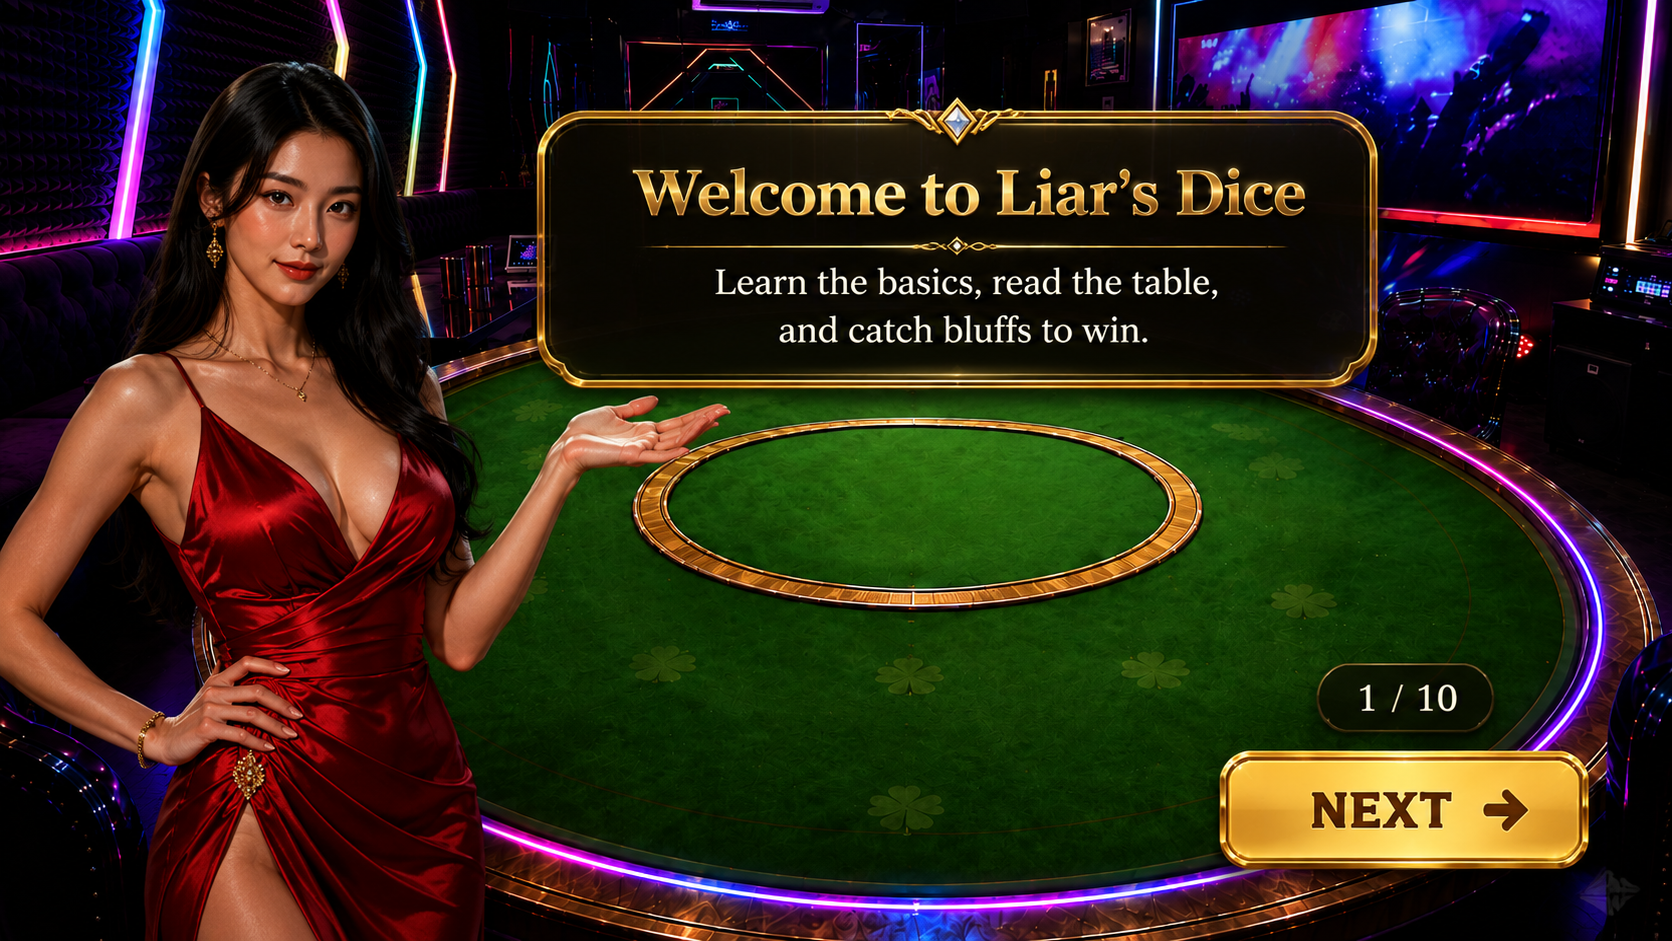
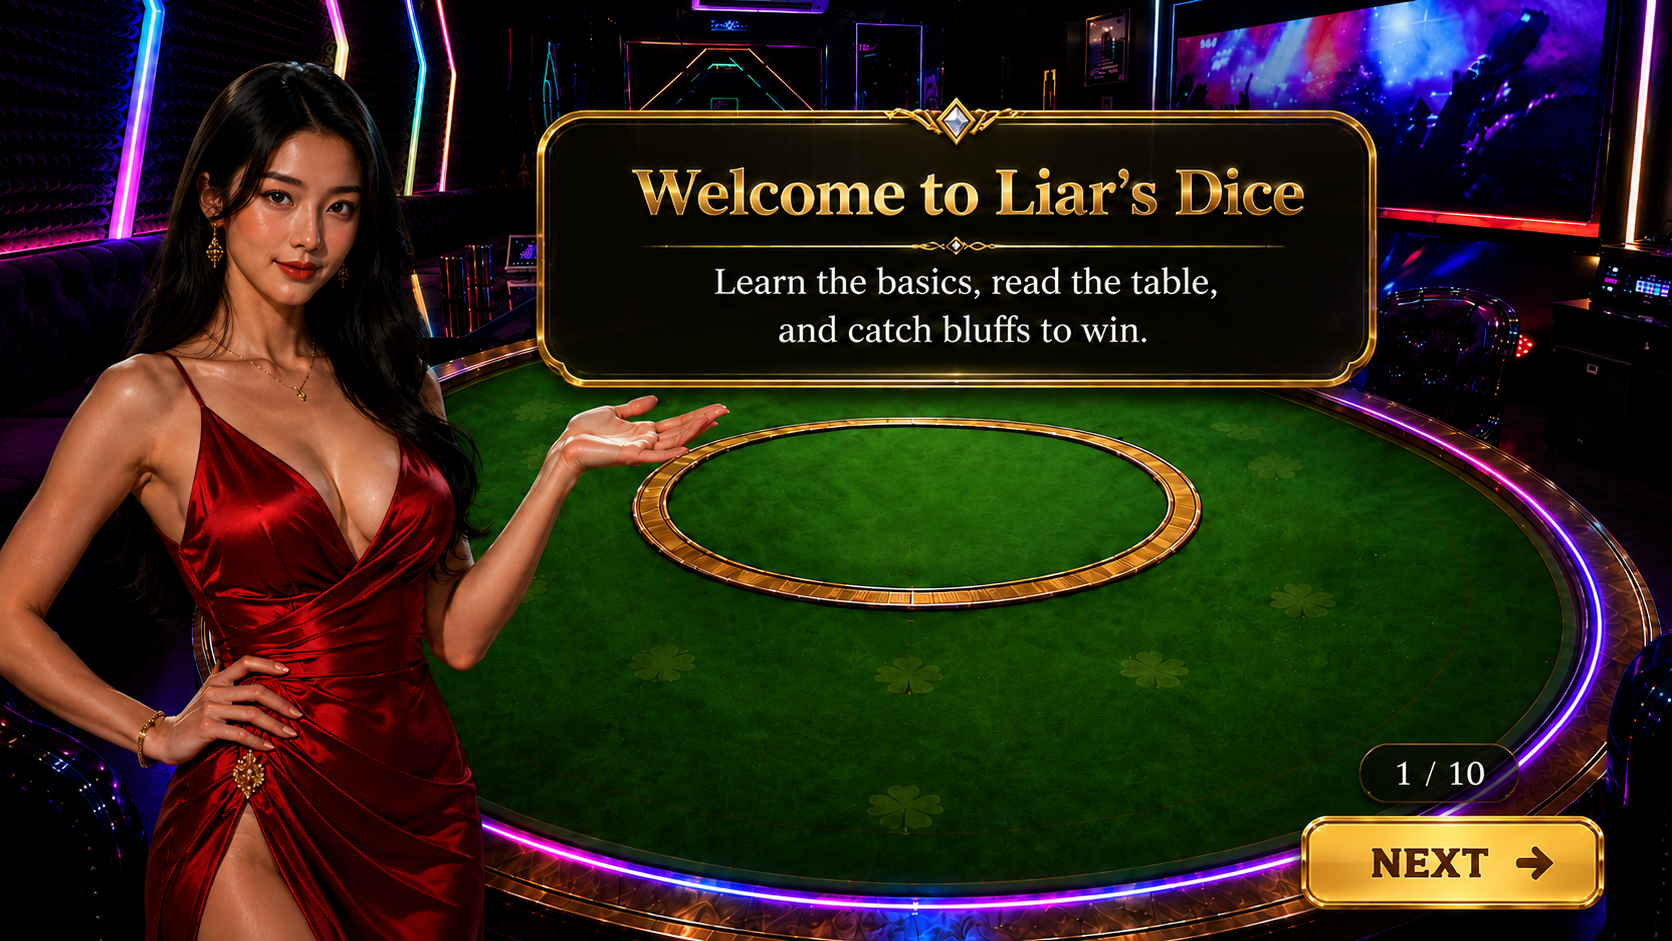
12

diff --git a/src/screens/TutorialScreen.jsx b/src/screens/TutorialScreen.jsx
@@ -3,22 +3,23 @@ import { useCallback, useEffect, useMemo, useState } from 'react';
 const TOTAL_PAGES = 10;
 const LANDSCAPE_SIZE = { width: 1672, height: 941 };
 const PORTRAIT_SIZE = { width: 941, height: 1672 };
+const SKIP_IMAGE_SRC = '/assets/tutorial/skip.png';
 
 // Pixel rectangles measured against the supplied tutorial artwork. They are
 // converted to percentages so the transparent control stays over the button
 // when the fixed game canvas is scaled by the application shell.
 const HOTSPOTS = {
   landscape: [
-    [1200, 730, 420, 165],
-    [1345, 775, 315, 125],
-    [1270, 640, 335, 120],
-    [1335, 785, 305, 120],
-    [1225, 710, 390, 140],
-    [1245, 790, 370, 130],
-    [1260, 740, 390, 135],
-    [1320, 735, 345, 125],
-    [1235, 745, 400, 140],
-    [1195, 675, 350, 130],
+    [1275, 802, 320, 108],
+    [1388, 820, 268, 90],
+    [1338, 812, 302, 102],
+    [1330, 852, 280, 88],
+    [1358, 844, 285, 90],
+    [1248, 835, 328, 96],
+    [1348, 820, 310, 98],
+    [1382, 820, 248, 86],
+    [1412, 845, 245, 82],
+    [1242, 754, 300, 100],
   ],
   portrait: [
     [500, 1380, 400, 180],
@@ -56,6 +57,10 @@ export default function TutorialScreen({ navigation, orientation = 'landscape' }
   const imageSrc = tutorialImage(activeOrientation, pageIndex);
   const isFinalPage = pageIndex === TOTAL_PAGES - 1;
 
+  const skipTutorial = useCallback(() => {
+    navigation?.goMainMenu?.();
+  }, [navigation]);
+
   const hotspotStyle = useMemo(
     () => toPercentRect(HOTSPOTS[activeOrientation][pageIndex], activeSize),
     [activeOrientation, activeSize, pageIndex],
@@ -63,11 +68,11 @@ export default function TutorialScreen({ navigation, orientation = 'landscape' }
 
   const advance = useCallback(() => {
     if (isFinalPage) {
-      navigation?.goMainMenu?.();
+      skipTutorial();
       return;
     }
     setPageIndex((current) => Math.min(TOTAL_PAGES - 1, current + 1));
-  }, [isFinalPage, navigation]);
+  }, [isFinalPage, skipTutorial]);
 
   useEffect(() => {
     setImageFailed(false);
@@ -75,6 +80,7 @@ export default function TutorialScreen({ navigation, orientation = 'landscape' }
     const paths = new Set([
       tutorialImage(activeOrientation, pageIndex),
       tutorialImage(activeOrientation === 'portrait' ? 'landscape' : 'portrait', pageIndex),
+      SKIP_IMAGE_SRC,
     ]);
 
     if (pageIndex < TOTAL_PAGES - 1) {
@@ -90,6 +96,12 @@ export default function TutorialScreen({ navigation, orientation = 'landscape' }
 
   useEffect(() => {
     const handleKeyDown = (event) => {
+      if (event.key === 'Escape') {
+        event.preventDefault();
+        skipTutorial();
+        return;
+      }
+
       if (event.key === 'ArrowRight' || event.key === 'Enter' || event.key === ' ') {
         event.preventDefault();
         advance();
@@ -98,7 +110,7 @@ export default function TutorialScreen({ navigation, orientation = 'landscape' }
 
     window.addEventListener('keydown', handleKeyDown);
     return () => window.removeEventListener('keydown', handleKeyDown);
-  }, [advance]);
+  }, [advance, skipTutorial]);
 
   return (
     <section
@@ -121,13 +133,24 @@ export default function TutorialScreen({ navigation, orientation = 'landscape' }
       )}
 
       {!imageFailed && (
-        <button
-          className="tutorial-screen__hotspot"
-          type="button"
-          style={hotspotStyle}
-          onClick={advance}
-          aria-label={isFinalPage ? 'Start game' : `Next tutorial page, ${pageIndex + 2} of ${TOTAL_PAGES}`}
-        />
+        <>
+          <button
+            className={`tutorial-screen__skip-button tutorial-screen__skip-button--${activeOrientation}`}
+            type="button"
+            onClick={skipTutorial}
+            aria-label="Skip tutorial"
+          >
+            <img className="tutorial-screen__skip-image" src={SKIP_IMAGE_SRC} alt="" draggable="false" />
+          </button>
+
+          <button
+            className="tutorial-screen__hotspot"
+            type="button"
+            style={hotspotStyle}
+            onClick={advance}
+            aria-label={isFinalPage ? 'Start game' : `Next tutorial page, ${pageIndex + 2} of ${TOTAL_PAGES}`}
+          />
+        </>
       )}
     </section>
   );

diff --git a/src/styles/screens/tutorial.css b/src/styles/screens/tutorial.css
@@ -75,3 +75,45 @@
   font-size: 18px;
   overflow-wrap: anywhere;
 }
+
+
+.tutorial-screen__skip-button {
+  position: absolute;
+  z-index: 7;
+  display: block;
+  margin: 0;
+  padding: 0;
+  border: 0;
+  outline: 0;
+  background: transparent;
+  cursor: pointer;
+  touch-action: manipulation;
+  -webkit-tap-highlight-color: transparent;
+}
+
+.tutorial-screen__skip-button--landscape {
+  top: 24px;
+  right: 28px;
+  width: 210px;
+}
+
+.tutorial-screen__skip-button--portrait {
+  top: 30px;
+  right: 26px;
+  width: 195px;
+}
+
+.tutorial-screen__skip-image {
+  display: block;
+  width: 100%;
+  height: auto;
+  pointer-events: none;
+  user-select: none;
+  -webkit-user-drag: none;
+}
+
+.tutorial-screen__skip-button:focus-visible {
+  border-radius: 18px;
+  outline: 4px solid rgba(255, 237, 166, .9);
+  outline-offset: 2px;
+}

diff --git a/src/App.jsx b/src/App.jsx
@@ -154,9 +154,12 @@ const PRELOAD_SCREEN_LABELS = {
   tutorial: 'tutorial',
 };
 
-const TUTORIAL_ASSETS = ['landscape', 'portrait'].flatMap((orientation) =>
-  Array.from({ length: 10 }, (_, index) => `/assets/tutorial/${orientation}/${index + 1}.png`),
-);
+const TUTORIAL_ASSETS = [
+  ...['landscape', 'portrait'].flatMap((orientation) =>
+    Array.from({ length: 10 }, (_, index) => `/assets/tutorial/${orientation}/${index + 1}.png`),
+  ),
+  '/assets/tutorial/skip.png',
+];
 
 const BOOT_PRELOAD_PHASE = 'starterShell';
 const PLAY_FLOW_PRELOAD_PHASE = 'playFlow';
